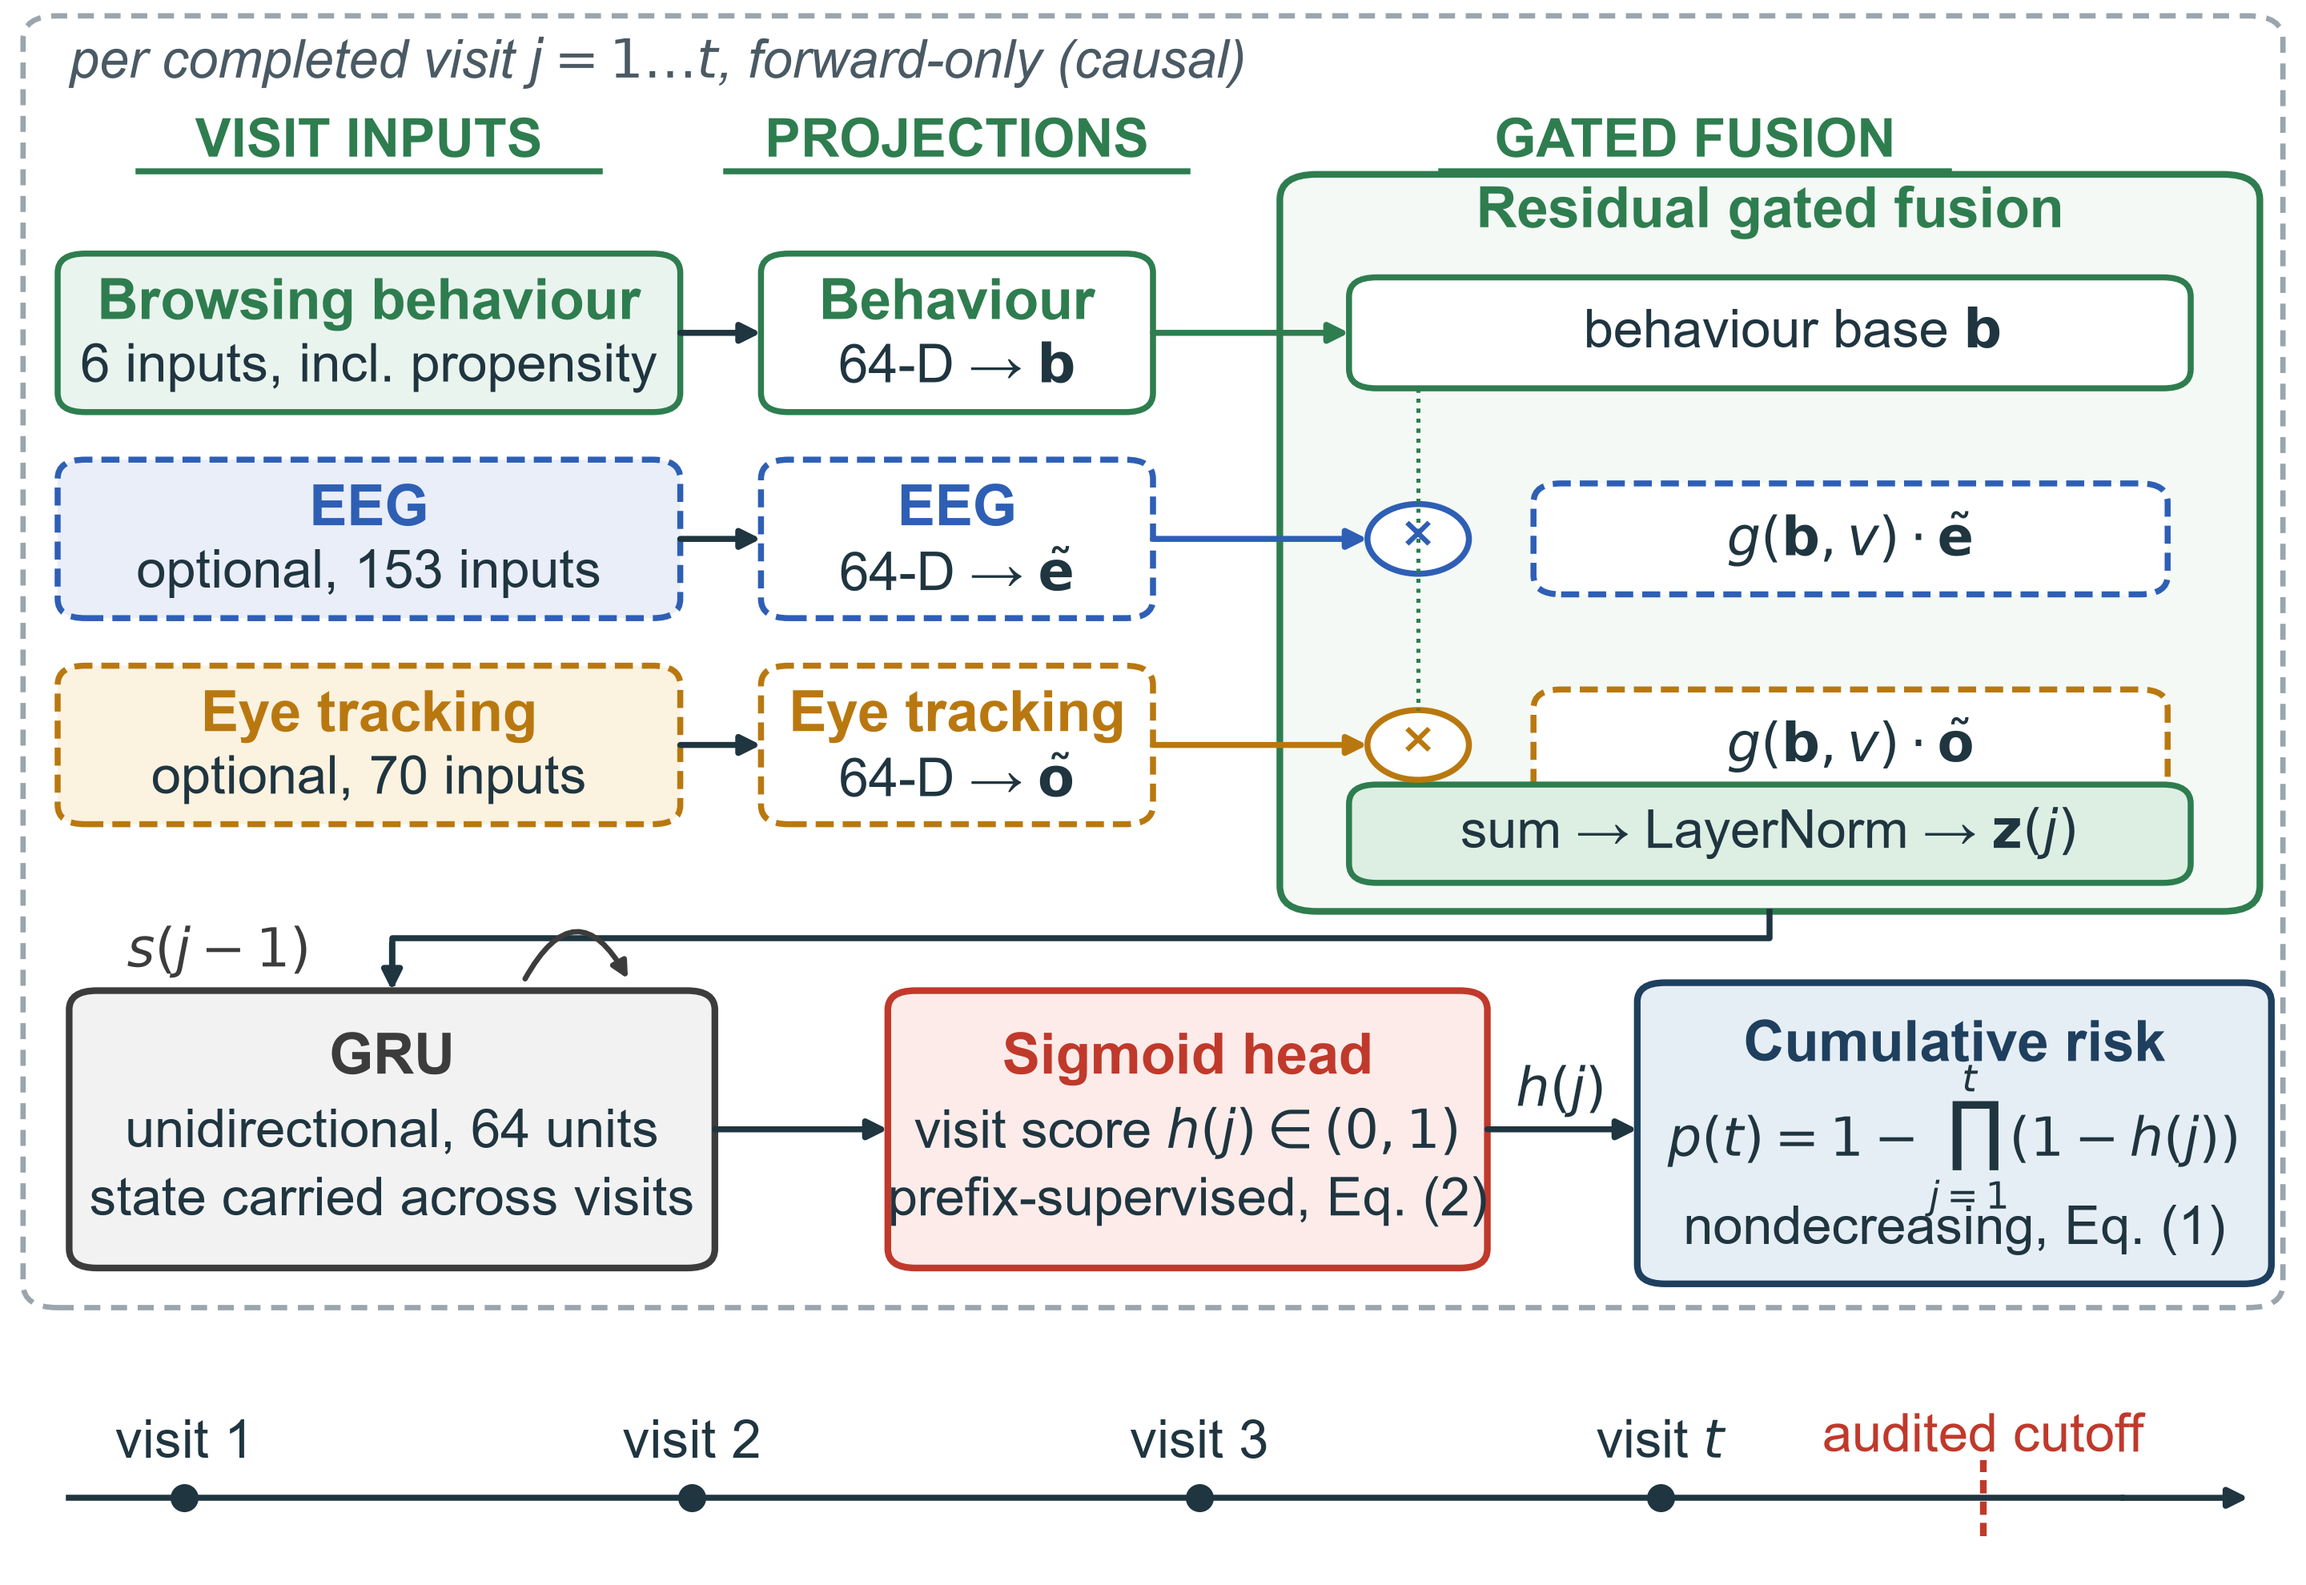
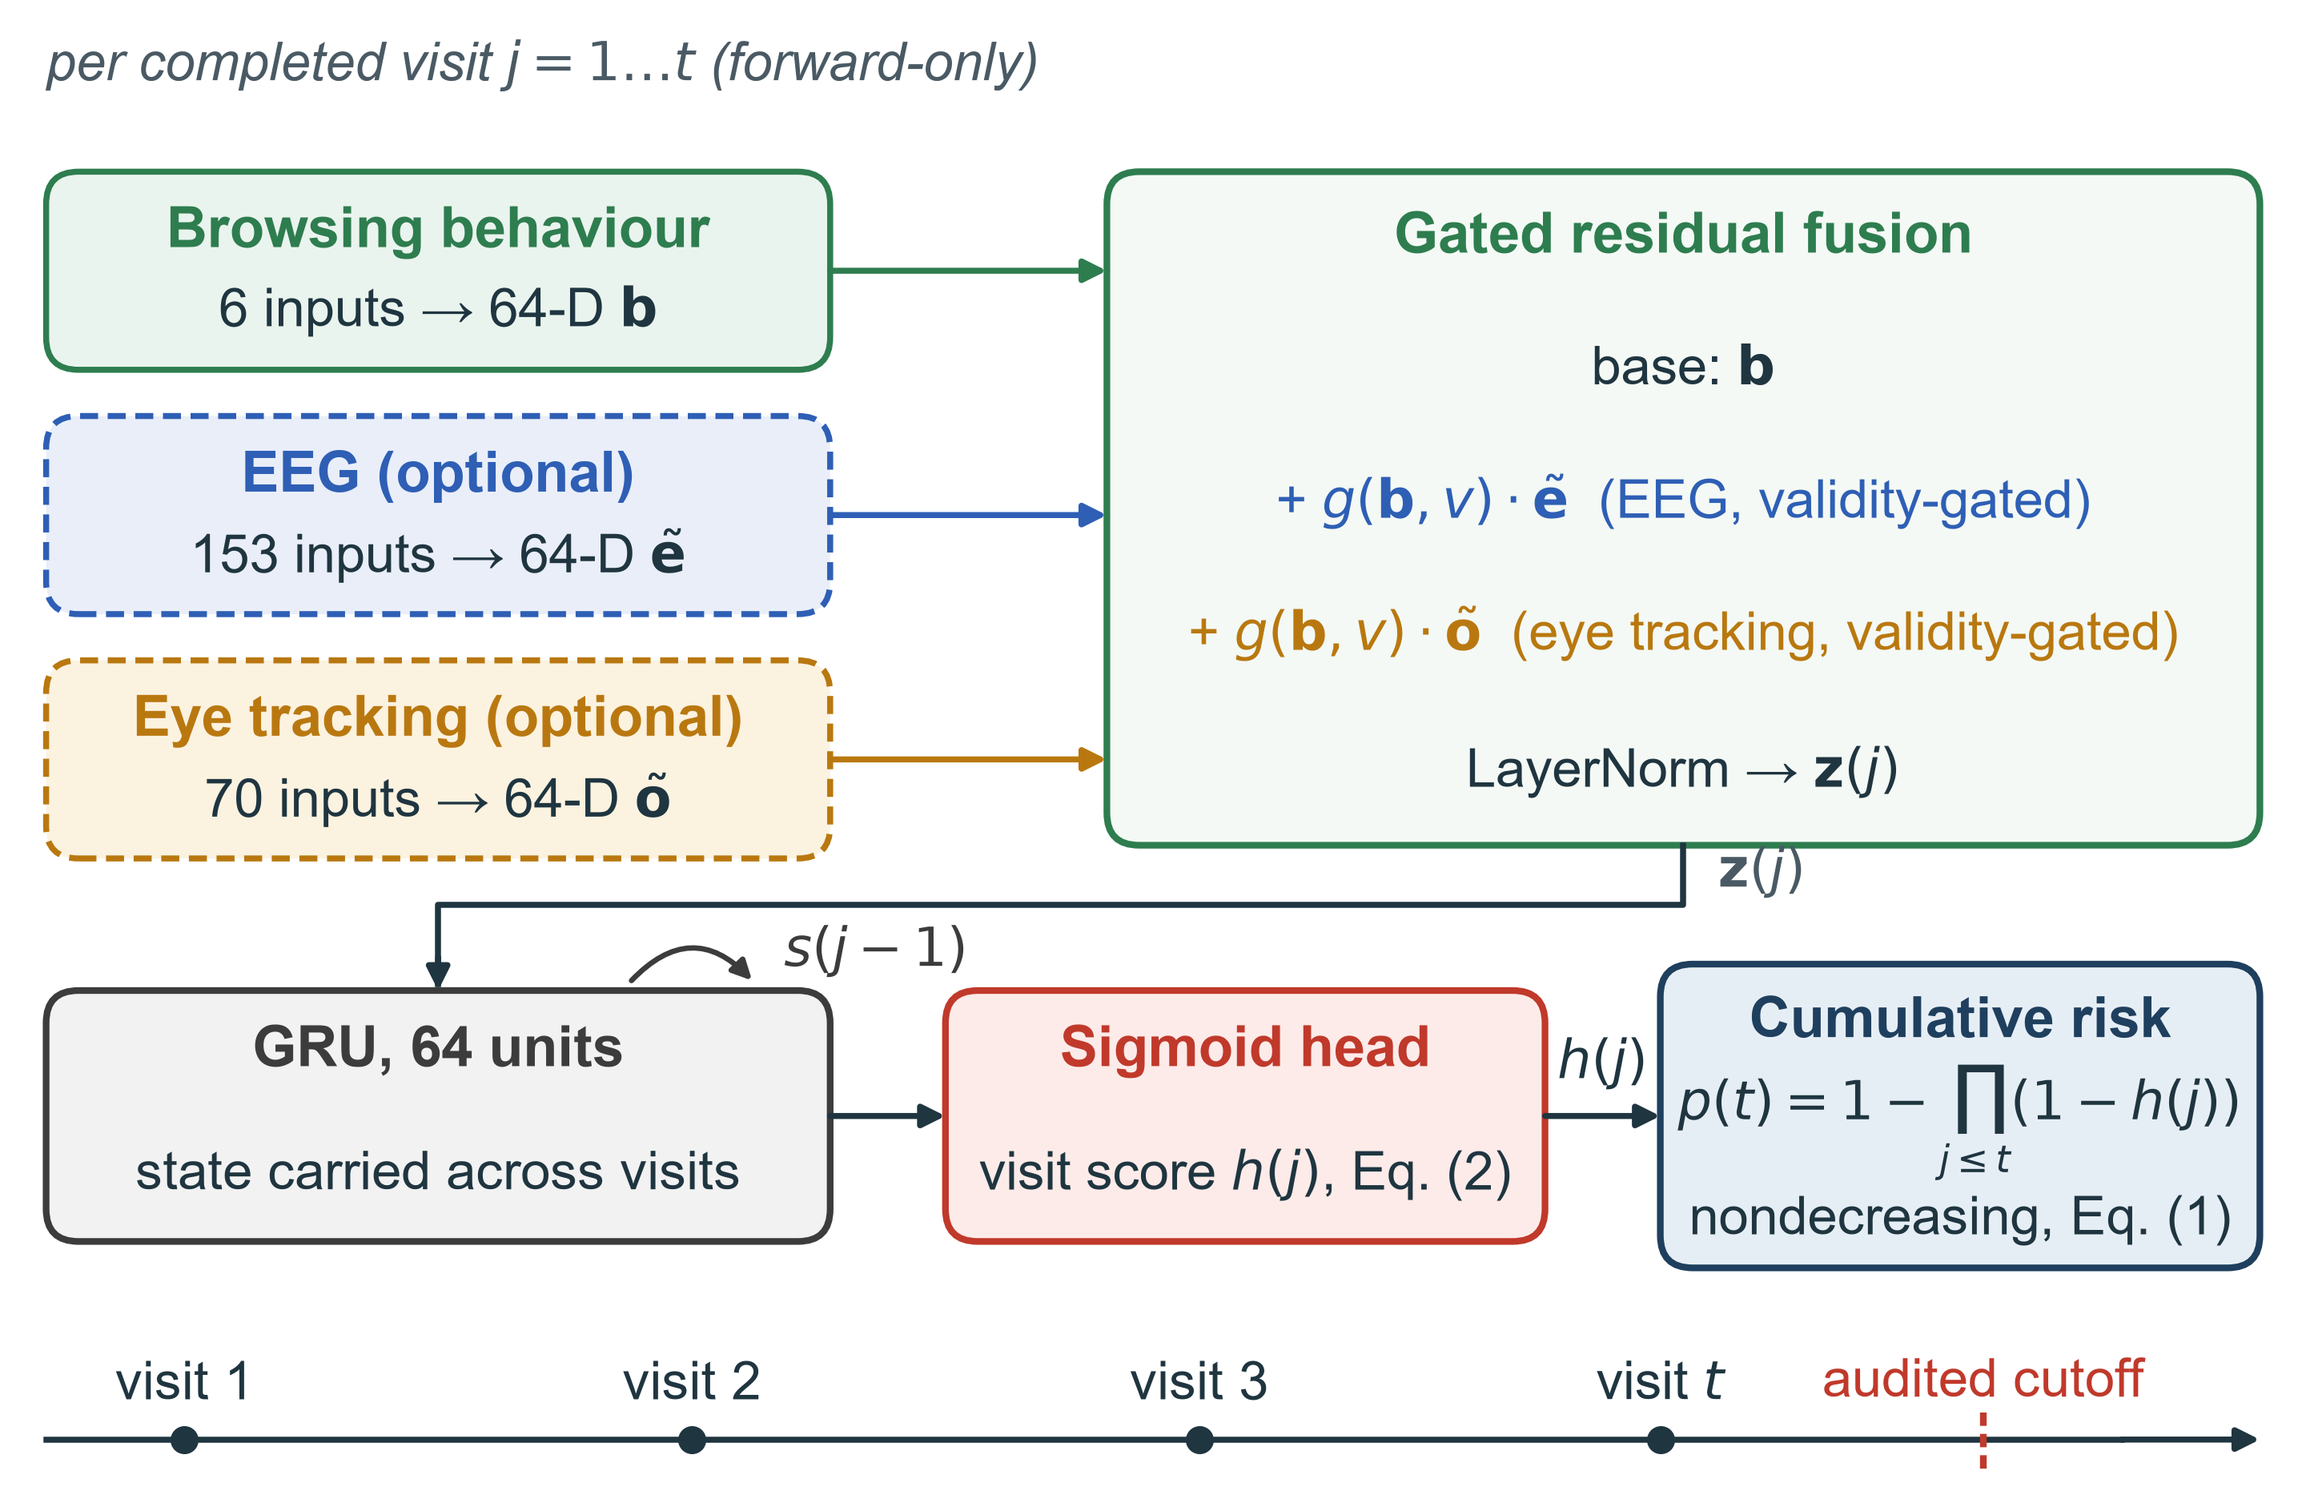
v17: simplified two-row Fig. 2 (8 pt, one box per modality, timeline)

diff --git a/camera_ready/scripts/v6/figures_8pt/make_fig2_clean.py b/camera_ready/scripts/v6/figures_8pt/make_fig2_clean.py
@@ -1,0 +1,54 @@
+"""Fig 2, clean two-row version: one box per modality, one fusion box, one temporal row, timeline. All text >= 8 pt."""
+import matplotlib; matplotlib.use('Agg')
+import matplotlib.pyplot as plt
+from matplotlib.patches import FancyBboxPatch, FancyArrowPatch
+from matplotlib import font_manager
+from figlib import *
+font_manager.fontManager.addfont(ARIAL); font_manager.fontManager.addfont(ARIAL_BOLD)
+plt.rcParams.update({'font.family': 'Arial', 'font.size': 8, 'text.color': INK_HEX, 'mathtext.fontset': 'dejavusans'})
+GREEN, GREEN_F = '#2E7D4F', '#EAF4EE'; BLUE, BLUE_F = '#2E5FB5', '#E9EEF9'; ORANGE_E, ORANGE_F = '#B9780F', '#FBF2E0'
+GREY, GREY_F = '#3C3C3C', '#F2F2F2'; RED, RED_F = '#C0392B', '#FCEBE9'; NAVY_E, NAVY_F = '#1F3F5E', '#E6EEF5'; MUTED = '#4A5A64'
+W_IN, H_IN = 4.8, 3.12
+fig = plt.figure(figsize=(W_IN, H_IN), dpi=600); ax = fig.add_axes([0, 0, 1, 1]); ax.set_xlim(0, 100); ax.set_ylim(-13.5, 100); ax.axis('off')
+ASP = W_IN / H_IN * (113.5 / 100)
+def box(x, y, w, h, edge, face, ls='-', lw=0.9): ax.add_patch(FancyBboxPatch((x, y), w, h, boxstyle='round,pad=0,rounding_size=1.4', ec=edge, fc=face, lw=lw, ls=ls, zorder=2, mutation_aspect=ASP))
+def label(x, y, s, size=8, weight='normal', color=INK_HEX, ha='center', va='center', style='normal'): ax.text(x, y, s, fontsize=size, fontweight=weight, color=color, ha=ha, va=va, fontstyle=style, zorder=4)
+def arrow(p0, p1, color=INK_HEX, lw=0.9): ax.add_patch(FancyArrowPatch(p0, p1, arrowstyle='-|>', mutation_scale=7, color=color, lw=lw, zorder=3, shrinkA=0, shrinkB=0))
+DASH = (0, (3, 1.6))
+label(2.0, 97.0, 'per completed visit $j = 1 \\ldots t$ (forward-only)', size=8, ha='left', va='top', style='italic', color=MUTED)
+# row 1: modality boxes
+IX, IW, IH = 2.0, 34.0, 15.0; rows = {'beh': 72.0, 'eeg': 53.5, 'et': 35.0}
+for key, ec, fc, ls, t1, t2 in [('beh', GREEN, GREEN_F, '-', 'Browsing behaviour', '6 inputs → 64-D $\\mathbf{b}$'),
+                                ('eeg', BLUE, BLUE_F, DASH, 'EEG (optional)', '153 inputs → 64-D $\\tilde{\\mathbf{e}}$'),
+                                ('et', ORANGE_E, ORANGE_F, DASH, 'Eye tracking (optional)', '70 inputs → 64-D $\\tilde{\\mathbf{o}}$')]:
+    y = rows[key]; box(IX, y, IW, IH, ec, fc, ls=ls)
+    label(IX + IW/2, y + IH - 4.6, t1, size=8.5, weight='bold', color=ec); label(IX + IW/2, y + 4.4, t2, size=8)
+# fusion box
+FX, FW, FY, FH = 48.0, 50.0, 36.0, 51.0
+box(FX, FY, FW, FH, GREEN, '#F4F9F5', lw=1.0); fcx = FX + FW/2
+label(fcx, FY + FH - 5.0, 'Gated residual fusion', size=8.5, weight='bold', color=GREEN)
+label(fcx, FY + FH - 15.0, 'base: $\\mathbf{b}$', size=8)
+label(fcx, FY + FH - 25.0, '+ $g(\\mathbf{b}, v)\\cdot\\tilde{\\mathbf{e}}$  (EEG, validity-gated)', size=8, color=BLUE)
+label(fcx, FY + FH - 35.0, '+ $g(\\mathbf{b}, v)\\cdot\\tilde{\\mathbf{o}}$  (eye tracking, validity-gated)', size=8, color=ORANGE_E)
+label(fcx, FY + 5.5, 'LayerNorm → $\\mathbf{z}(j)$', size=8)
+for key, ec in [('beh', GREEN), ('eeg', BLUE), ('et', ORANGE_E)]:
+    arrow((IX + IW, rows[key] + IH/2), (FX, rows[key] + IH/2), color=ec)
+# connector down to GRU
+y2, h2 = 6.0, 19.0; gcx = 19.0
+ax.plot([fcx, fcx, gcx, gcx], [FY, 31.5, 31.5, y2 + h2 + 0.5], color=INK_HEX, lw=0.9, zorder=3); arrow((gcx, y2 + h2 + 2.5), (gcx, y2 + h2))
+label(fcx + 1.5, 32.0, '$\\mathbf{z}(j)$', size=8, style='italic', ha='left', va='bottom', color=MUTED)
+# row 2
+box(2.0, y2, 34.0, h2, GREY, GREY_F, lw=1.0); label(gcx, y2 + h2 - 4.6, 'GRU, 64 units', size=8.5, weight='bold', color=GREY); label(gcx, y2 + 5.0, 'state carried across visits', size=8)
+ax.add_patch(FancyArrowPatch((27.0, y2 + h2), (33.0, y2 + h2), connectionstyle='arc3,rad=-0.6', arrowstyle='-|>', mutation_scale=6, color=GREY, lw=0.8, zorder=3))
+label(34.0, y2 + h2 + 1.0, '$s(j-1)$', size=8, style='italic', color=GREY, ha='left', va='bottom')
+box(41.0, y2, 26.0, h2, RED, RED_F, lw=1.0); label(54.0, y2 + h2 - 4.6, 'Sigmoid head', size=8.5, weight='bold', color=RED); label(54.0, y2 + 5.0, 'visit score $h(j)$, Eq. (2)', size=8)
+arrow((36.0, y2 + h2/2), (41.0, y2 + h2/2))
+box(72.0, y2 - 2.0, 26.0, h2 + 4.0, NAVY_E, NAVY_F, lw=1.0); label(85.0, y2 + h2 - 2.4, 'Cumulative risk', size=8.5, weight='bold', color=NAVY_E)
+label(85.0, y2 + 9.0, '$p(t) = 1 - \\prod_{j \\leq t}(1 - h(j))$', size=8); label(85.0, y2 + 1.6, 'nondecreasing, Eq. (1)', size=8)
+arrow((67.0, y2 + h2/2), (72.0, y2 + h2/2)); label(69.5, y2 + h2/2 + 2.0, '$h(j)$', size=8, style='italic', va='bottom')
+# timeline
+ty = -9.0; ax.plot([2.0, 92.0], [ty, ty], color=INK_HEX, lw=0.9, zorder=3); arrow((92.0, ty), (98.0, ty))
+for x, s in [(8.0, 'visit 1'), (30.0, 'visit 2'), (52.0, 'visit 3'), (72.0, 'visit $t$')]:
+    ax.plot(x, ty, 'o', color=INK_HEX, ms=3.2, zorder=4); label(x, ty + 2.2, s, size=8, va='bottom')
+ax.plot([86.0, 86.0], [ty - 2.2, ty + 2.2], color=RED, lw=1.0, ls=(0, (2, 1.2)), zorder=4); label(86.0, ty + 2.4, 'audited cutoff', size=8, color=RED, va='bottom')
+fig.savefig(os.path.join(OUT, 'fig2.png'), dpi=600, facecolor='white'); print('fig2 clean done')
